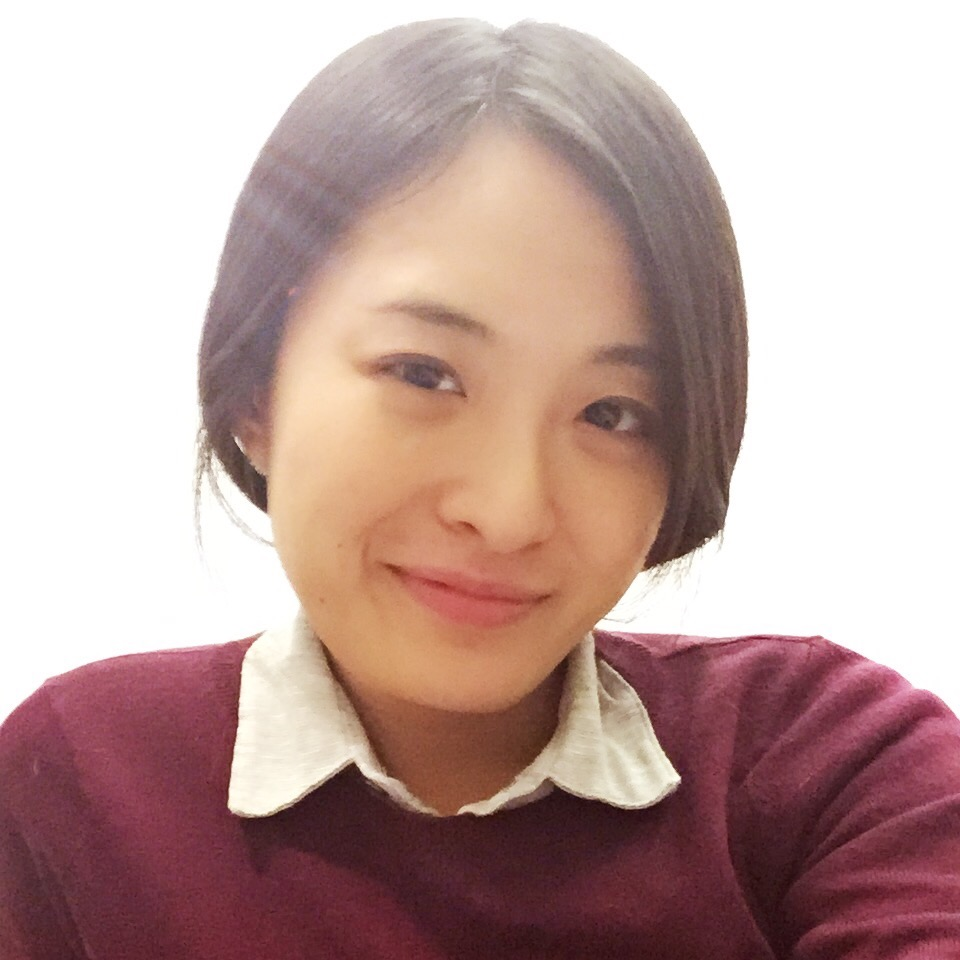
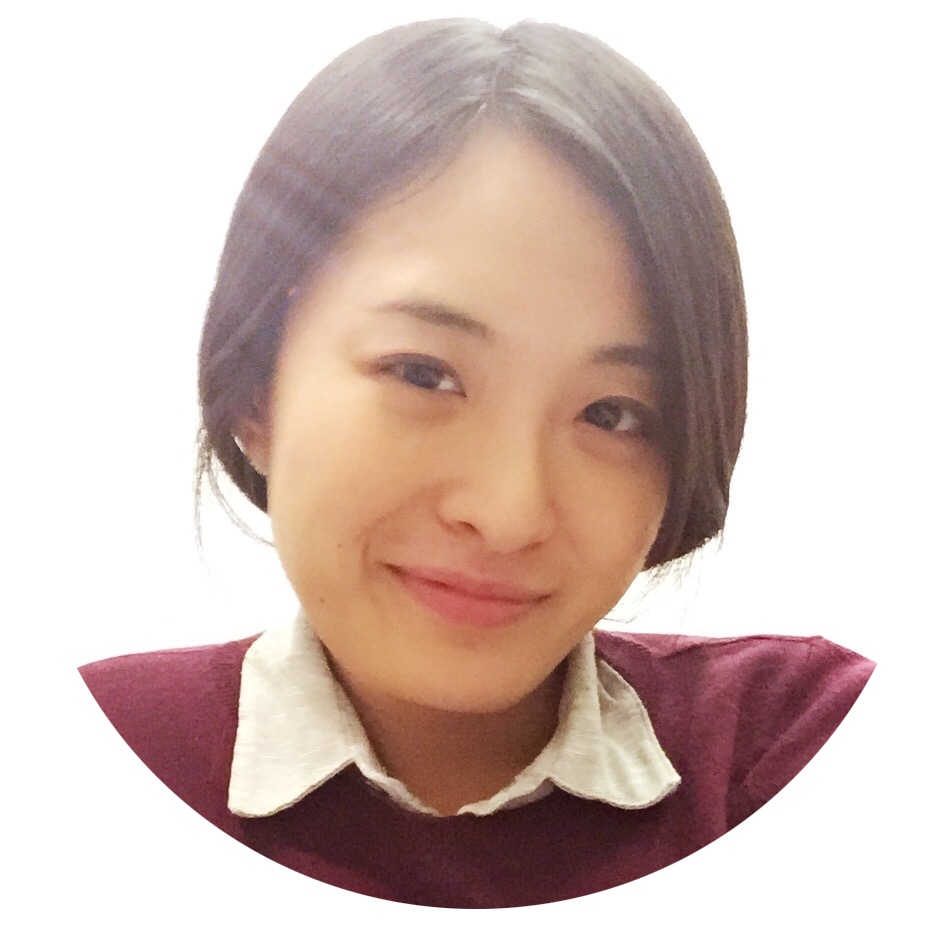
update profile pic

diff --git a/index.html b/index.html
@@ -2,66 +2,14 @@
 <html>
 
   <head>
-    <meta charset='utf-8'>
-    <meta http-equiv="X-UA-Compatible" content="chrome=1">
-    <meta name="description" content="YumengSun.GitHub.io : ">
 
-    <link rel="stylesheet" type="text/css" media="screen" href="stylesheets/stylesheet.css">
-
-    <title>YumengSun.GitHub.io</title>
+    <title>Yumeng Sun</title>
   </head>
 
-  <body>
-
-    <!-- HEADER -->
-    <div id="header_wrap" class="outer">
-        <header class="inner">
-          <a id="forkme_banner" href="https://github.com/yumengsun">View on GitHub</a>
-
-          <h1 id="project_title">YumengSun.GitHub.io</h1>
+  <body>      
+	  <img src ="images/profile.png" height="142" width="142">
+          <p id="project_title">Yumeng Sun</p> 
           <h2 id="project_tagline"></h2>
-
-        </header>
-    </div>
-
-    <!-- MAIN CONTENT -->
-    <div id="main_content_wrap" class="outer">
-      <section id="main_content" class="inner">
-        <h3>
-<a id="welcome-to-github-pages" class="anchor" href="#welcome-to-github-pages" aria-hidden="true"><span class="octicon octicon-link"></span></a>Welcome to GitHub Pages.</h3>
-
-<p>This automatic page generator is the easiest way to create beautiful pages for all of your projects. Author your page content here <a href="https://guides.github.com/features/mastering-markdown/">using GitHub Flavored Markdown</a>, select a template crafted by a designer, and publish. After your page is generated, you can check out the new <code>gh-pages</code> branch locally. If you’re using GitHub Desktop, simply sync your repository and you’ll see the new branch.</p>
-
-<h3>
-<a id="designer-templates" class="anchor" href="#designer-templates" aria-hidden="true"><span class="octicon octicon-link"></span></a>Designer Templates</h3>
-
-<p>We’ve crafted some handsome templates for you to use. Go ahead and click 'Continue to layouts' to browse through them. You can easily go back to edit your page before publishing. After publishing your page, you can revisit the page generator and switch to another theme. Your Page content will be preserved.</p>
-
-<h3>
-<a id="creating-pages-manually" class="anchor" href="#creating-pages-manually" aria-hidden="true"><span class="octicon octicon-link"></span></a>Creating pages manually</h3>
-
-<p>If you prefer to not use the automatic generator, push a branch named <code>gh-pages</code> to your repository to create a page manually. In addition to supporting regular HTML content, GitHub Pages support Jekyll, a simple, blog aware static site generator. Jekyll makes it easy to create site-wide headers and footers without having to copy them across every page. It also offers intelligent blog support and other advanced templating features.</p>
-
-<h3>
-<a id="authors-and-contributors" class="anchor" href="#authors-and-contributors" aria-hidden="true"><span class="octicon octicon-link"></span></a>Authors and Contributors</h3>
-
-<p>You can <a href="https://github.com/blog/821" class="user-mention">@mention</a> a GitHub username to generate a link to their profile. The resulting <code>&lt;a&gt;</code> element will link to the contributor’s GitHub Profile. For example: In 2007, Chris Wanstrath (<a href="https://github.com/defunkt" class="user-mention">@defunkt</a>), PJ Hyett (<a href="https://github.com/pjhyett" class="user-mention">@pjhyett</a>), and Tom Preston-Werner (<a href="https://github.com/mojombo" class="user-mention">@mojombo</a>) founded GitHub.</p>
-
-<h3>
-<a id="support-or-contact" class="anchor" href="#support-or-contact" aria-hidden="true"><span class="octicon octicon-link"></span></a>Support or Contact</h3>
-
-<p>Having trouble with Pages? Check out our <a href="https://help.github.com/pages">documentation</a> or <a href="https://github.com/contact">contact support</a> and we’ll help you sort it out.</p>
-      </section>
-    </div>
-
-    <!-- FOOTER  -->
-    <div id="footer_wrap" class="outer">
-      <footer class="inner">
-        <p>Published with <a href="https://pages.github.com">GitHub Pages</a></p>
-      </footer>
-    </div>
-
-    
 
   </body>
 </html>
